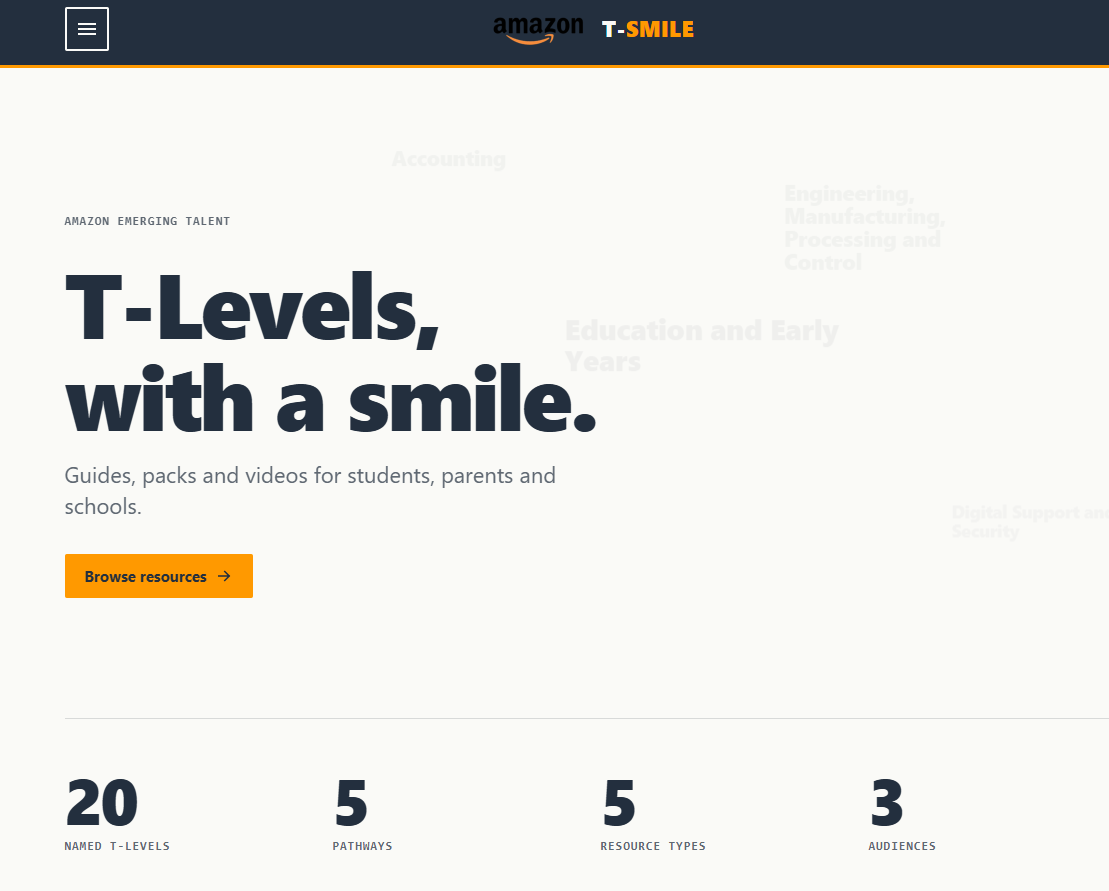
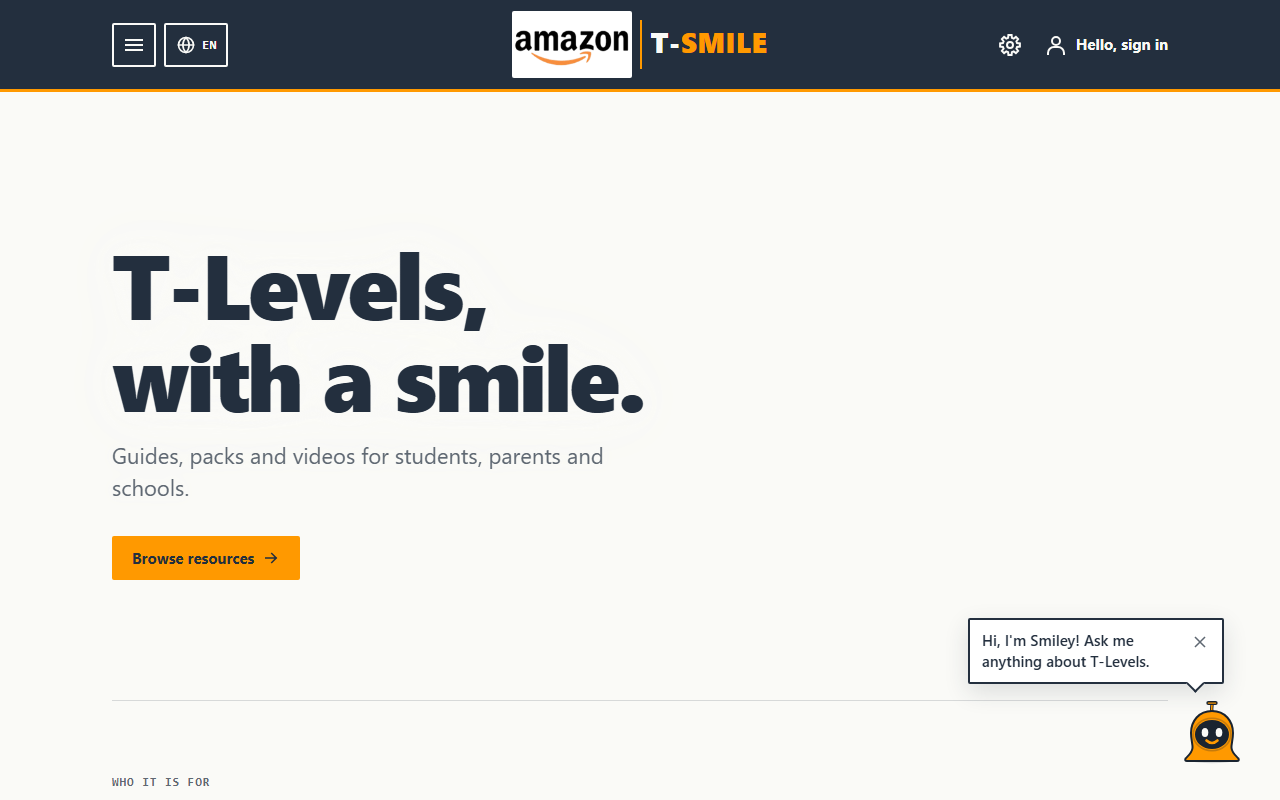
New README screenshots, and a halo that doesn't fade the title

diff --git a/frontend/src/styles.css b/frontend/src/styles.css
@@ -970,13 +970,12 @@ a.menu-hello__text:hover {
 }
 
 /* A halo in the page colour, so the floating subject names fade out behind
-   the hero text instead of running through it. */
+   the hero text instead of running through it. A filter, not text-shadow:
+   text-shadow is drawn line by line, so the second line's halo covered the
+   bottom of the first line's letters. */
 .hero__title,
 .hero__subhead {
-  text-shadow:
-    0 0 0.25em var(--paper),
-    0 0 0.5em var(--paper),
-    0 0 1em var(--paper);
+  filter: drop-shadow(0 0 0.15em var(--paper)) drop-shadow(0 0 0.35em var(--paper));
 }
 
 .hero__subhead {

diff --git a/README.md b/README.md
@@ -27,8 +27,10 @@ Read [`CONTEXT.md`](CONTEXT.md) (rules and conventions) and [`MODELS.md`](MODELS
 ## Screenshots
 
 ![T-SMILE homepage](docs/screenshots/home-hero.png)
-![Homepage audience cards](docs/screenshots/home-audiences.png)
+![Resources page](docs/screenshots/resources.png)
 ![The five pathways](docs/screenshots/pathways.png)
+![Find T-Levels Near You](docs/screenshots/near-you.png)
+![Register your interest](docs/screenshots/register-interest.png)
 ![Help page](docs/screenshots/help.png)
 ![Sign up page](docs/screenshots/signup.png)
 
